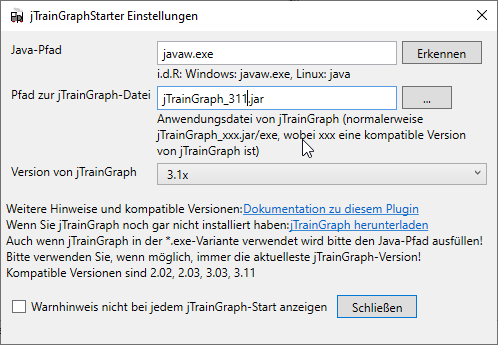
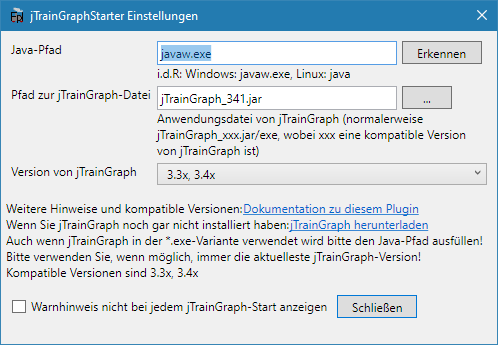
update docs for FPledit v2.6.1

diff --git a/hugo/content/fahrplaene-bearbeiten/network/_index.md b/hugo/content/fahrplaene-bearbeiten/network/_index.md
@@ -20,7 +20,7 @@ Eine Station kann mit Gleisangaben versehen werden. Im unteren Teil des Stations
 
 **Hinweis**: Schon vor der Erstellung des Streckennetzes sollte man sich Gedanken zum Aufbau des Netzes machen. Strecken können nachträglich nicht mehr zusammengefügt oder getrennt werden. Aus diesem Grund sollten zusammengehörende Strecken auch immer zusammenhängend anglegt werden und nicht aus Teilstrecken zusammengestückelt werden!
 
-![Streckenfenster](netzeditor.png)
+![Bearbeitung des Streckennetzes](netzeditor.png)
 
 Bei großen Streckennetzen kann die Verschiebe- und Zoomfunktion nützlich sein, um den Überblick zu behalten: Die Zeichenfläche kann mit der Maus verschoben werden; das Vergrößern und Verkleinern ist mit dem Mausrad oder mit den Tasten {{< kbd "Plus" >}} und {{< kbd "Minus" >}} möglich.
 
@@ -28,12 +28,17 @@ Bei großen Streckennetzen kann die Verschiebe- und Zoomfunktion nützlich sein,
 
 Wenn ein Streckennetz angelegt wurde, ist der Menüpunkt `Bearbeiten > Züge bearbeiten` nicht mehr ausgegraut. In diesem Fenster lassen sich die Züge, die im Streckennetz verkehren, bearbeiten. Züge haben im Gegensatz zu früheren Versionen einen Laufweg, der für jeden Zug seperat angelegt werden kann. Daher haben Züge auch keine Richtung mehr und die entsprechenden Teilung entfällt.
 
-Durch einen Klick auf `Neuer Zug` ({{< kbd "Strg+N" >}}) öffnet sich ein Fenster, in dem der Laufweg des Zuges eingestellt werden kann. Dies geschieht durch Klicks auf die Startstation und die Endstation (in dieser Reihenfolge!), was zu einer roten Markierung des Laufweges führt, und einer anschließenden Bestätigung mit `Weiter >>`.
-Anschließend öffnet sich ein Fenster in dem man Name, Verkehrstage und erweiterte Eigenschaften des Zuges auswählen kann. Den selben Dialog erreicht man auch mit einem Klick auf `Zug bearbeiten` ({{< kbd "Strg+B" >}}), damit lassen sich dann nachträglich diese Eigenschaften bearbeiten.
-
-Die erweitereten Eigenschaften enthalten das Triebfahrzeug, die Mindestbremshundertstel und Last. Das Triebfahrzeug lässt sich dabei aus einer Liste aller in dieser Fahrplandatei verwendeten Triebfahrzeuge auswählen oder selbst eingeben. Diese drei Angaben sind nicht verpflichtend und werden im Buchfahrplan angzeigt. Unten links kann ein Folgezug ausgewählt werden. Damit können Umläufe generiert werden. Diese werden in jTrainGraph im Bildfahrplan angezeigt.
+Durch einen Klick auf `Neuer Zug` ({{< kbd "Strg+N" >}}) öffnet sich ein Fenster, in dem der Laufweg des Zuges eingestellt werden kann. Dies geschieht durch Klicks auf die Startstation und die Endstation (in dieser Reihenfolge!), was zu einer roten Markierung des Laufweges führt, und einer anschließenden Bestätigung mit `Weiter >>`. Anschließend öffnet sich das Fenster zum Bearbeiten des neuen Zuges (siehe den nächsten Abschnitt).
 
 Züge lassen sich natürlich auch mit dem entsprechenden Button bzw. mit {{< kbd "Del" >}} löschen.
+
+## Zug bearbeiten
+
+Nach dem Erstellen oder mit der Funktion `Zug bearbeiten` ({{< kbd "Strg+B" >}}) öffnet sich ein Fenster in dem man Name, Verkehrstage und erweiterte Eigenschaften des Zuges auswählen kann.
+
+Die erweitereten Eigenschaften enthalten das Triebfahrzeug, die Mindestbremshundertstel und Last. Das Triebfahrzeug lässt sich dabei aus einer Liste aller in dieser Fahrplandatei verwendeten Triebfahrzeuge auswählen oder selbst eingeben. Diese drei Angaben sind nicht verpflichtend und werden im Buchfahrplan angzeigt.
+
+Unten links können ein oder mehrere Folgezüge eingetragen werden (z.B. verschiedene Übergänge an unterschiedlichen Verkehrstagen). Damit können Umläufe generiert werden. Diese werden in jTrainGraph im Bildfahrplan angezeigt.
 
 Bei der Bearbeitung der Verkehrstage eines Zuges können neben den Auswahlboxen unten die folgenden Tastenkürzel verwendet werden:
 
@@ -43,9 +48,9 @@ Bei der Bearbeitung der Verkehrstage eines Zuges können neben den Auswahlboxen 
 * {{< kbd "Strg+S" >}} Verkehrt nur Sonntags
 * {{< kbd "Strg+0" >}} Keine Tage anwählen
 
-![Zugfenster](zugfenster.png)
+![Bearbeitung eines Netzwerk-Zuges](zugfenster.png)
 
-## Fahrplan eines Zuges bearbeiten
+### Fahrplan eines Zuges bearbeiten
 
 Nachdem die Züge angelegt wurden, kann der Fahrplan jedes einzelnen Zuges bearbeitet werden. Dazu klickt man im Zugfenster mit dem zu bearbeitenden Zug ausgewählt auf `Zug bearbeiten` ({{< kbd "Strg+B" >}}). Im sich nun öffnenden Fahrplaneditor können die Fahrtzeiten des Zuges bearbeitet werden. In der linken Spalte sind die Stationen des Laufweges angezeigt, daneben können Ankunfts- und Abfahrtszeiten bearbeitet werden.
 
@@ -64,7 +69,7 @@ In jeder Zeile können Abfahrts- und Ankunftsgleis ausgewählt werden. Diese wer
 
 Mit einem Klick auf die Schaltfläche `Rangierfahrten` können die Rangierfahrten des aktuellen Zuges am aktuell ausgewählten Bahnhof bearbeitet werden. Dies ist nur möglich, wenn, wie oben beschrieben, Gleise angelegt wurden. Rangierfahrten bestehen dabei aus Zeitangabe, Start- und Zeilgleis. `Alle Wagen` gibt an, ob das Startgleis nach der Rangierfahrt wieder frei ist.
 
-![Rangierfenster](../rangierfenster.png)
+![Rangierfahrten bearbeiten oder anlegen](rangierfenster.png)
 
 ## Laufweg eines Zuges nachträglich ändern
 
@@ -72,7 +77,7 @@ Natürlich lässt sich der Laufweg eines Zuges auch nachträglich bearbeiten. Da
 
 Das Entfernen von Stationen aus der Mitte des Laufweges ist nicht möglich, genausowenig wie das Erstellen verzweigter Laufwege.
 
-![Laufweg bearbeiten](laufwegfenster.png)
+![Laufweg eines Zuges nachträglich bearbeiten](laufwegfenster.png)
 
 {{< include "inc_kopieren.md" >}}
 

diff --git a/hugo/content/fahrplaene-bearbeiten/cycles/_index.md b/hugo/content/fahrplaene-bearbeiten/cycles/_index.md
@@ -8,21 +8,33 @@ Ab FPLedit Version 2.1.0 können Netzwerke auch geschlossene Kreise enthalten. D
 
 ## Strecken untereinander wieder verbinden
 
-Zuerst muss eine Strecke ausgewählt werden. In diesem Beispiel die Strecke B - F. Deren offenes Ende (hier: F) soll im nächsten Schritt mit einem Bahnhof einer anderen Strecke verbunden werden. In diesem Beipiel soll eine Verbindung zwischen F und C hergestellt werden. Nach diesem Schritt werden die beiden Strecken A - B - C - D und B - E - F - C existieren.
+Zuerst muss eine Strecke ausgewählt werden. In diesem Beispiel die Strecke B – F. Deren offenes Ende (hier: F) soll im nächsten Schritt mit einem Bahnhof einer anderen Strecke verbunden werden. In diesem Beipiel soll eine Verbindung zwischen F und C hergestellt werden. Nach diesem Schritt werden die beiden Strecken A – B – C – D und B – E – F – C existieren.
 
 ![Noch ist das Netz nicht zirkulär](join_start.png)
 
 Nach einem Klick auf `Strecken zusammenführen` muss der neue Streckenkilometereintrag für den Bahnhof C eingegeben werden:
 
-![Eingabefeld für den neuen Kilometereintrag](join_km.png)
+![Eingabefeld für den neuen Kilometer-Eintrag](join_km.png)
 
 Zum Abschluss sieht das resultierende Netz nun so aus:
 
 ![Netz am Ende dieses Kurztutorials](join_end.png)
 
-{{< note title="Zirkuläre Strecken löschen" >}}
-Zirkuläre Strecken können nicht mehr vollständig gelöscht werden, da sonst meist mehrere Strecken zwischen zwei Stationen zusammenfallen. FPLedit wird dies verhindern, ein Löschen der letzten Station, die zwei Strecken unterscheidet ist somit nicht mehr möglich. Ein Entfernen des Streckenastes B - E - F - C ist daher in diesem Besipiel nicht mehr möglich, wohl aber das Löschen *einer* Station: E *oder* F.
-{{< /note >}}
+## Strecken wieder trennen
+
+Seit FPLedit 2.6.0 können Strecken auch wieder getrennt werden, solange bestimmte Bedingungen erfüllt sind: Es dürfen keine Züge über den Abschnitt verkehren. Außerdem müssen alle Stationen nach dem Trennen noch durch Strecken verbunden sein; das Trennen ist nicht möglich, wenn dass das Netz dabei in zwei seperate Teilnetze ohne Verbindung zerfallen würde.
+
+Um eine Strecke zwischen zwei Stationen zu trennen, hier zwischen E und F, wird bei einer Station nach einem Rechtsmausklick die Option `Strecke trennen` ausgewählt:
+
+![Aktivieren der Funktion zum Trennen von Strecken](trennen_start.png)
+
+Danach muss die zweite Station mit einem Klick ausgewählt werden, zwischen denen das Streckensegment entfernt werden soll. Diese muss direkt mit der zuerst ausgewählten Station verbunden sein, es dürfen also keine anderen Stationen dazwischen liegen:
+
+![Auswahl der zweiten Station zum Trennen der Strecke E – F](trennen_select.png)
+
+Nach der Trennung der Strecke sieht das Netz dann so aus:
+
+![Ergebnis des Trennens der Strecke zwischen E und F](trennen_result.png)
 
 ## Züge in zirkulären Netzwerken anlegen
 
@@ -30,14 +42,22 @@ Als Beispiel soll ein Zug zwischen den Bahnhöfen A und D angelegt werden. Dabei
 
 ![Laufwegauswahl mit Start und Ziel](train_start.png)
 
-Um den Laufweg einfach bearbeiten zu können, muss nun unten die Option `Wegpunkte setzen` aktiviert werden. Wegpunkte können nur bei der Erstellung der Züge angelegt werden. Ihre Erstellung kann nicht rückgängig gemacht werden. Auch muss aufgepasst werden, dass die Wegpunkte **in der Reihenfolge gesetzt werden, in der der Zug sie auch durchfährt**, sonst kommt es zu fehlerhaften Ergebnissen. Da der Testzug den Laufweg A - F - E - D haben soll, wird nun der in Zugrichtung erste Wegpunkt mit einem Klick angewählt: E.
+Um den Laufweg einfach bearbeiten zu können, muss nun unten die Option `Wegpunkte setzen` aktiviert werden. Wegpunkte können nur bei der Erstellung der Züge angelegt werden. Ihre Erstellung kann nicht rückgängig gemacht werden. Auch muss aufgepasst werden, dass die Wegpunkte **in der Reihenfolge gesetzt werden, in der der Zug sie auch durchfährt**, sonst kommt es zu fehlerhaften Ergebnissen. Da der Testzug den Laufweg A – F – E – D haben soll, wird nun der in Zugrichtung erste Wegpunkt mit einem Klick angewählt: E.
 
 ![Der erste Wegpunkt wurde gesetzt und führt zu einer Strecke die Bahnhof B zwei mal durchfährt](train_first_waypoint.png)
 
-Der Laufweg des Zuges ist nun A - B - E - B - C - D und damit noch immer nicht das gewünschte Ergebnis. Deshalb wird nun F als zweiter Wegpunkt ausgewählt:
+Der Laufweg des Zuges ist nun A – B – E – B – C – D und damit noch immer nicht das gewünschte Ergebnis. Deshalb wird nun F als zweiter Wegpunkt ausgewählt:
 
 ![Der fertige Laufweg wurde mit zwei Wegpunkten realisiert](train_waypoints.png)
 
 Der Laufweg ist nun vollständig und der Zug kann wie gewohnt bearbeitet werden.
+
+## Virtuelle Strecken
+
+Unter `Bearbeiten > Virtuelle Strecken` lassen sich "virtuelle" Strecken abbilden – das sind Streckenverläufe, die nicht notwendigerweise mit den "echten" (über `Neue Strecke`) angelegten Streckenästen des Netzes übereinsteimmen müssen. Das ist nützlich für die Bildfahrplanvorschau, sollte man z.B. eine durchgehende Strecke gestückelt angelegt haben.
+
+Eine virtuelle Strecke wird beim Anlegen wie ein Zug mit einem "Laufweg" versehen. Danach steht diese in der Bildfahrplanvorschau zur Verfügung, und ist mit einem `[v]` und dem angelegten Laufweg bezeichnet.
+
+![Virtuelle Strecken können nur erzeugt und gelöscht werden](vroutes.png)
 
 {{% beta %}}

diff --git a/hugo/content/fahrplaene-bearbeiten/linear/index.md b/hugo/content/fahrplaene-bearbeiten/linear/index.md
@@ -18,7 +18,7 @@ Durch einen Klick auf `Neue Station` ({{< kbd "Strg+N" >}}) kann man durch Einga
 
 Eine Station kann mit Gleisangaben versehen werden. Im unteren Teil des Stationseditors kann der schematische Gleisplan editiert werden. Mit einem Klick auf die entsprechenden Schlatflächen können Gleise hinzugefügt, verschoben und auch wieder entfernt werden. Mit einem Doppelklick auf den Gleisnamen kann dieser bearbeitet werden. Am Rand können die Standardgleise in die entsprechende Richtung verschoben werden.
 
-![Streckenfenster](lin-streckenfenster.png)
+![Bearbeiten der linearen Strecke](lin-streckenfenster.png)
 
 ## Züge anlegen
 
@@ -26,9 +26,11 @@ Wenn eine Strecke angelegt wurde, ist der Menüpunkt `Bearbeiten > Züge bearbei
 
 Die Züge sind nach Fahrtrichtung geordnet, diese kann nachträglich auch nicht mehr geändert werden! Durch einen Klick auf `Neuer Zug` ({{< kbd "Strg+N" >}}) bei der jeweiligen Fahrtrichtung, in dem die Daten des Zuges festgelegt werden können. Den selben Dialog erreicht man auch mit einem Klick auf `Zug bearbeiten` ({{< kbd "Strg+B" >}}), damit lassen sich dann nachträglich Züge bearbeiten. Züge lassen sich natürlich auch mit dem entsprechenden Button bzw. mit {{< kbd "Del" >}} löschen.
 
-![Zugfenster](lin-zugfenster.png)
+![Bearbeiten der Züge auf der linearen Strecke](lin-zugfenster.png)
 
-Im Zugfenster kann man Name, Verkehrstage und erweiterte Eigenschaften des Zuges eingeben. Die erweitereten Eigenschaften enthalten das Triebfahrzeug, die Mindestbremshundertstel und Last. Das Triebfahrzeug lässt sich dabei aus einer Liste aller in dieser Fahrplandatei verwendeten Triebfahrzeuge auswählen oder selbst eingeben. Diese drei Angaben sind nicht verpflichtend und werden im Buchfahrplan angzeigt. Unten links kann ein Folgezug ausgewählt werden. Damit können Umläufe generiert werden. Diese werden in jTrainGraph im Bildfahrplan angezeigt.
+Im Zugfenster kann man Name, Verkehrstage und erweiterte Eigenschaften des Zuges eingeben. Die erweitereten Eigenschaften enthalten das Triebfahrzeug, die Mindestbremshundertstel und Last. Das Triebfahrzeug lässt sich dabei aus einer Liste aller in dieser Fahrplandatei verwendeten Triebfahrzeuge auswählen oder selbst eingeben. Diese drei Angaben sind nicht verpflichtend und werden nur im Buchfahrplan angzeigt.
+
+Unten links können ein oder mehrere Folgezüge eingetragen werden (z.B. verschiedene Übergänge an unterschiedlichen Verkehrstagen). Damit können Umläufe generiert werden. Diese werden in jTrainGraph im Bildfahrplan angezeigt.
 
 In jeder Zeile können Abfahrts- und Ankunftsgleis ausgewählt werden. Diese werden an den entsprechenden Stellen in den Fahrplänen angezeigt.
 
@@ -40,7 +42,7 @@ Bei der Bearbeitung der Verkehrstage eines Zuges können neben den Auswahlboxen 
 * {{< kbd "Strg+S" >}} Verkehrt nur Sonntags
 * {{< kbd "Strg+0" >}} Keine Tage anwählen
 
-![Zugfenster](lin-zugeditor.png)
+![Bearbeitung eines (linearen) Zuges](lin-zugeditor.png)
 
 Mit einem Klick auf die Schaltfläche `Rangierfahrten` können die Rangierfahrten des aktuellen Zuges am aktuell ausgewählten Bahnhof bearbeitet werden. Dies ist nur möglich, wenn, wie oben beschrieben, Gleise angelegt wurden. Rangierfahrten bestehen dabei aus Zeitangabe, Start- und Zeilgleis. `Alle Wagen` gibt an, ob das Startgleis nach der Rangierfahrt wieder frei ist.
 
@@ -59,7 +61,7 @@ Bei Ankünften kann festgelegt werden, ob der Zug vor der Trapeztafel halten mus
 
 [^1]: Dies ist das Signal für Bedarfshalt bei den schwedischen Eisenbahnen. Ein Reisender kann die Scheibe von Hand in Richtung des Zuges drehen, damit der Zug anhalten wird.
 
-![Fahrplan bearbeiten](lin-fahrplanfenster.png)
+![Fahrplan eines linearen Zuges bearbeiten](lin-fahrplanfenster.png)
 
 {{< include "inc_kopieren.md" >}}
 

diff --git a/hugo/content/erweiterbarkeit/_index.md b/hugo/content/erweiterbarkeit/_index.md
@@ -4,17 +4,18 @@ weight: 3
 ---
 
 ## Erweiterungen
-Eines der Grundkonzepte von FPLedit ist die Erweiterbarkeit. Erweiterungen fügen Menüs und eigene Dialoge hinzu und stellen zusätzliche Funktionalität bereit. Die Erweiterungen liegen als DLL-Datei im Programmverzeichnis. Nahezu alle Programmfunktionen werden über Erweiterungen bereitgestellt. Mit dem Programm werden schon einige Erweiterungen, die standardmäßig alle aktiviert sind, mitausgeliefert:
+Eines der Grundkonzepte von FPLedit ist die Erweiterbarkeit. Erweiterungen fügen Menüs und eigene Dialoge hinzu und stellen zusätzliche Funktionalität bereit. Die Erweiterungen liegen als DLL-Datei im Programmverzeichnis. Nahezu alle Programmfunktionen werden über Erweiterungen bereitgestellt. Mit dem Programm werden schon einige Erweiterungen, die standardmäßig alle aktiviert sind, mit ausgeliefert:
 
 * Aushangfahrplan-Modul (`FPLedit.Aushangfahrplan.dll`)
 * Buchfahrplan-Modul (`FPLedit.Buchfahrplan.dll`)
 * Modul für Tabellenfahrpläne (`FPLedit.Kursbuch.dll`)
 * Starter für jTrainGraph zur Bildfahrplanerstellung (`FPLedit.jTrainGraphStarter.dll`)
 * Dynamische Bildfahrplanvorschau (`FPLedit.Bildfahrplan.dll`)
+* GTFS-Export (`FPLedit.GTFS.dll`) – standardmäßig nicht aktiviert!
 
 Erweiterungen können über über das Programm verwaltet werden (`Hilfe > Einstellungen > Erweiterungen`). In diesem Dialog können Erweiterungen deaktiviert (`<`) oder aktiviert (`>`) werden. [Eigene Erweiterungen](/dev/) können in C# programmiert werden.
 
-![Erweiterungsfenster](erweiterungsfenster.png)
+![Verwaltung der vorhandenen FPLedit-Erweiterungen](erweiterungsfenster.png)
 
 ## Vorlagen
 Zur Generierung der Fahrplan-Ausgabedateien kommen Vorlagen zum Einsatz. Vorlagen sind Textdateien mit der Endung `.fpltmpl`, die im vorgegebenen Format mit einem Texteditor von jedem Benutzer selbst erstellt werden können. Diese liegen im Ordner `templates/` im Programmverzeichnis.
@@ -23,17 +24,17 @@ Die Verwaltung von Vorlagen ist unter `Hilfe > Einstellungen > Vorlagen` möglic
 
 **Achtung:** Vorlagen sind ausführbarer Programmcode. Möglicherweise können Vorlagen, die nicht mit FPLedit ausgeliefert wurden und beispielsweise von einer anderen Website heruntergeladen werden, ein Sicherheitsrisiko für ihren Computer darstellen.
 
-![Vorlagenfenster](vorlagenfenster.png)
+![Verwaltung der vorhandenen Fahrplan-Vorlagen](vorlagenfenster.png)
 
 ## Sprachdateien
 Unter `Hilfe > Einstellungen > Sprache` kann die Sprache der Benutzeroberfläche von FPLedit eingestellt werden.
 
-![Sprachfenster](sprachfenster.png)
+![Auswahl der Sprache der Benutzeroberfläche](sprachfenster.png)
 
 ## Dateiformatversionen
 
-Es stehen mehrere Dateiformatversionen sowohl für lineare als auch Netzwerk-Fahrpläne zur Verfügung. Diese können in den Einstellungen augewählt weden und werden bei jedem Programmupdate auf die jeweils aktuelle Version gesetzt. Normalerweise ist die Auswahl der aktuellsten Version die richtige Entscheidung, da damit immer die meisten und neuesten Features bereitstehen.
+Es stehen mehrere Dateiformatversionen sowohl für lineare als auch Netzwerk-Fahrpläne zur Verfügung. Diese können in den Einstellungen augewählt weden und werden bei jedem Programmupdate auf die jeweils aktuelle Version gesetzt. Normalerweise ist die Auswahl der aktuellsten Version die richtige Entscheidung, da damit immer die meisten und neuesten Features bereitstehen. Die Unterstützung älterer Dateiformatversionen wird mit neuen Programmversionen auch immer wieder entfernt.
 
-![Dateiformatfenster](dateiformatfenster.png)
+![Auswahl der Standard-Dateiformatversionen](dateiformatfenster.png)
 
 {{% beta %}}

diff --git a/hugo/content/gtfs/_index.md b/hugo/content/gtfs/_index.md
@@ -1,0 +1,50 @@
+---
+title: GTFS
+weight: 100
+nooffline: true
+---
+
+FPLedit erlaubt das Erstellen von einfachen GTFS-Feeds. Diese Funktion ist nur für "Experten" sinnvoll nutzbar und kann unter `Einstellungen > Erweiterungen` ativiert werden (standardmäßig ist die Funktion deaktiviert).
+
+{{< warning title="Einschränkungen GTFS-Export" >}}
+Der GTFS-Export ist aktuell ausdrücklich eine **Testversion** und unterstützt nicht die Anpassung aller Details des exportierten Feeds. Der Export unterstützt aktuell auch nur lineare Fahrplandateien und einen einzigen Betreiber (Agency).
+
+Grundsätzlich gilt der Hinweis auf der Downloadseite; sollten Züge an mehr als einer handvoll Tagen verkehren ist FPLedit vermutlich *nicht* das Programm der Wahl zur Erstellung von GTFS-Feeds. FPLedit hat auch keinen GTFS-Validator und validiert den erstellten Feed nicht vollständig auf Korrektheit.
+{{< /warning >}}
+
+Für die Erstellung von gültigen GTFS-Feeds ist die Angabe von weiteren Daten erforderlich, die die "abstrakten" Fahrplandaten von FPLedit auf konkrete Orte, Zeiten und Betreiber bezeiehen.
+
+## Agency- und Streckendaten hinterlegen
+Zum Erstellen eines GTFS-Feeds benötigt FPLedit die Defintion einer eine Agency (Betreiber). Dies geschieht unter `GTFS > GTFS-Agencydaten bearbeiten`. Alle Agency- und Strecken-Daten sind Pflichtfelder und müssen ausgefüllt werden, damit ein gültiger GTFS-Feed entstehen kann.
+
+* Name des Betreibers
+* Sprachcode als IETF BCP 47 Language Code, z.B. `de` oder `de-DE` (FPLedit validiert diese Angabe nicht)
+* Website des Betreibers
+* Zeitzone, z.B. `Europe/Berlin` (FPLedit validiert diese Angabe nicht)
+
+Die eine Strecke des linearen Fahrplans benötigt einen Namen und einen Typ:
+* Name der einen Strecke
+* Type des Beförderungsmittels: Auswahl aus vordefinierten GTFS-Typen
+
+Global können hier auch noch die Verkehrstage aller Züge gesetzt werden, siehe auch den folgenden Abschnitt.
+
+## Zugattribute
+Unter `GTFS > GTFS-Zugattribute ändern` können einzelne Einstellungen pro Zug geändert werden:
+* **Fahrradmitnahme** und **Rollstuhlmitnahme** kann jeweils ausgewählt werden: Entweder nicht erlaubt (NotAllowed), erlaubt (Allowed) oder undefiniert (NotDefined).
+* **Verkehrstage** können als Datumsangaben angegeben werden, :
+    * Einzel-Datumsangaben werden im Format `YYYY-MM-TT`, z.B. `2023-12-06`, angegeben,
+    * Datumsbereiche im Format `YYYY-MM-TT--YYYY-MM-TT`, also mit zwei Minuszeichen (`--`) zwischen Start- und Enddatum, und
+    * mehrere Einträge können mit Kommata (`,`) separiert werden.
+    * Leerzeichen sind an keiner Stelle zulässig
+
+## Geodaten
+Es wird eine kml-Datei aus dem Verzeichnis der Fahrplandatei gelade. Diese muss den gleichen Dateinamens-Stamm haben, also z.B. `fahrplan2023.fpl` und `fahrplan2023.kml`. FPLedit lädt Geodaten der Stationen aus dieser Datei, wenn diese korrekt benannt sind:
+* KML Linien (`<LineString>` im XML), benannt mit dem _exakten_ bei den Streckendaten hinterlegten Streckennamen. Diese wird – falls vorhanden – der GTFS-Strecke als Shape zugewiesen.
+* KML Punkte (`<Point>` im XML) für Stationen, benannt mit den exakten Stationsnamen aus der Streckendefinition.
+
+## Export
+Wenn alle Daten eingegeben wurden, kann `GTFS > Exportiere GTFS-Feed` aufgerufen werden. Dabei muss ein (bestenfalls leerer) Ordner als Ziel ausgewählt werden. FPLedit packt den GTFS-Feed dabei nicht selbstständig als ZIP-Datei, das muss danach manuell geschehen.
+
+FPLedit hat keinen GTFS-Validator und validiert den erstellten Feed nicht vollständig auf Korrektheit.
+
+{{% beta %}}

diff --git a/hugo/content/bildfahrplaene/_index.md b/hugo/content/bildfahrplaene/_index.md
@@ -28,7 +28,7 @@ Um jTrainGraph direkt aus FPLedit zu starten, benutzen Sie `jTrainGraph > jTrain
 ## Konfiguration
 Die Einstellungen befinden sich unter `jTrainGraph > Einstellungen`. Der java-Pfad ist der Pfad zur Programmdatei von Java. Unter Windows sollte dieser normalerweise `javaw.exe` (bzw. `java` unter Linux) lauten. In manchen Fällen muss aber auch der absolute Pfad angegeben werden. Es kann auch der `Erkennen`-Button genutzt werden, um auf Windows automatisch den Java-Pfad herauszufinden.
 
-Der Pfad zur jTrainGraph-Datei lautet bei Installation im gleichen Verzeichnis `jTrainGraph_341.jar` (341 durch die jeweils aktuelle Version ersetzen). Ebenfalls muss der Pfad hier angepasst werden, wenn die Installation nicht im gleichen Verzeichnis erfolgt ist.
+Der Pfad zur jTrainGraph-Datei lautet bei Installation im gleichen Verzeichnis `jTrainGraph_342.jar` (342 durch die jeweils aktuelle Version ersetzen). Ebenfalls muss der Pfad hier angepasst werden, wenn die Installation nicht im gleichen Verzeichnis erfolgt ist.
 
 Weiter muss ausgewählt werden, welche Version von jTrainGraph verwendet wird. Damit wird die Zielversion von jTrainGraph entsprechend verwendet.
 
@@ -36,7 +36,7 @@ In den neuesten Versionen bietet jTrainGraph eine exe-Version an. Bei der Konfig
 
 Wenn die Konfiguration nicht korrekt erfolgt ist, warnt das Programm sowohl beim Speichern der Einstellungen als auch beim Versuch, jTrainGraph über das Menü zu starten.
 
-![Einstellungen](einstellungen.png)
+![Einstellungen für das Öffnen von Fahrplänen in jTrainGraph](einstellungen.png)
 
 ## Kompatibilitätsmatrix
 | FPLedit Version | ist kompatibel mit | jTrainGraph Versionen       |
@@ -46,6 +46,6 @@ Wenn die Konfiguration nicht korrekt erfolgt ist, warnt das Programm sowohl beim
 | 2.0.0           | &rarr;             | 2.02, 2.03, 3.03            |
 | 2.1.x, 2.2.x    | &rarr;             | 2.02, 2.03, 3.03, 3.11      |
 | 2.3.x           | &rarr;             | 3.11, 3.2x, 3.3x            |
-| 2.4.x           | &rarr;             | 3.3x, 3.4x (ab 2.4.2)       |
+| 2.4.x – 2.6.x   | &rarr;             | 3.3x, 3.4x (ab 2.4.2)       |
 
 {{% beta %}}

diff --git a/hugo/content/aushangfahrplaene/_index.md b/hugo/content/aushangfahrplaene/_index.md
@@ -7,11 +7,11 @@ Aushangfahrpläne sind Fahrpläne, die den Reisenden die Abfahrtszeiten am jewei
 
 Der Aushangfahrplan, der mit der Standard-Vorlage von FPledit erstellt wird, folgt grob einer Vorlage vom Bahnhof Malsch aus der Zeit der DRG und enthält keine Ankunftszeiten. Damit ist er am besten für kleinere Bahnhöfe an einer oder wenigen Strecken zu verwenden:
 
-![Quelle der Daten: Buchfahrplanheft 721-33 der DR aus dem Jahr 1894/85](afpl.png)
+![Beispiel, Quelle der Daten: Buchfahrplanheft 721-33 der DR aus dem Jahr 1894/85](afpl.png)
 
 Um den Aushangfahrplan als Vorschau anzuzeigen, verwenden Sie `Vorschau > Aushangfahrplan`. Unter `Bearbeiten > Filterregeln` können Regeln angelegt werden, nach denen vor der Ausgabe die Züge und Bahnhöfe gefiltert werden. Damit könnten z.B. alle Güterzüge und Anschlussstellen aus dem Aushangfahrplan ausgeblendet werden.
 
-![Filterfenster](filterfenster.png)
+![Filterregeln zum Ausblenden im Aushangfahrplan](filterfenster.png)
 
 ## Anpassen von Aushangfahrplänen
 Unter `Bearbeiten > Fahrplandarstellung` im Reiter `Aushangfahrplan` kann das Aussehen des Aushangfahrplans beeinflusst werden. Die Auswahlmöglichkeit einer Vorlage erlaubt es, die Darstellung des Aushangfahrplans schnell an verschiedene Gegebenheiten anzupassen.
@@ -22,7 +22,7 @@ Es kann weiterhin ausgewählt werden, ob Gleisangaben im Aushangfahrplan angzeig
 
 Weiterführend kann die Plandarstellung mit CSS (= Cascading Style Sheets) angepasst werden, da er ja im HTML-Format exportiert wird. Mit CSS können nahezu alle Aspekte der Plandarstellung geändert werden. Zur Aktivierung und Verwendung von CSS gibt es auf [dieser Unterseite](/dev/css/) aber eine ausführlichere Anleitung.
 
-![Aushangfahrplansdarstellung](afpl-darstellung.png)
+![Anpassung der Aushangfahrplansdarstellung](afpl-darstellung.png)
 
 ## Aushangfahrpläne exportieren und drucken
 {{< include "/include-export" >}}

diff --git a/hugo/content/buchfahrplaene/_index.md b/hugo/content/buchfahrplaene/_index.md
@@ -7,7 +7,7 @@ Zur Zeit wird kein vollständiger Buchfahrplan generiert, an einigen Stellen ist
 
 Dieser Buchfahrplan ist zwar schon recht nah am Vorbild, es fehlt aber trotzdem noch einiges bzw. das Format ist stark vereinfacht:
 
-![Quelle der Daten: Buchfahrplanheft 698/3 - Ersatzfahrplan](bfpl.png)
+![Beispiel-Buchfahrplan, Quelle der Daten: Buchfahrplanheft 698/3 - Ersatzfahrplan](bfpl.png)
 
 Um den Buchfahrplan als Vorschau anzuzeigen, verwenden Sie `Vorschau > Buchfahrplan`.
 
@@ -23,7 +23,7 @@ Neue Geschwindigkeitswechsel (ohne Bahnhof und Fahrtzeiten) auf der freien Strec
 
 Bei Geschwindigkeitswechseln können alle Eigenschaften bearbeitet werden, bei Bahnhöfen nur die Geschwindigkeit. Die Position und anderen Eigenschaften der Bahnhöfe können im Netz- oder Streckeneditor bearbeitet werden.
 
-![Höchstgeschwindigkeitsfenster](hgsfenster.png)
+![Angabe der Höchstgeschwindigkeiten für den Buchfahrplan](hgsfenster.png)
 
 In den Namen der Geschwindigkeitswechsel können Sonderzeichen verwendet werden, die in Buchfahrplänen eine besondere Bedeutung haben. Zum Verwenden im Plan bitte hier in der Dokumentation Kopieren ({{< kbd "Strg+C" >}}) und im Namenstextfeld einfügen ({{< kbd "Strg+V" >}}).
 
@@ -40,7 +40,7 @@ Es kann außerdem ausgewählt werden, ob der beim Zug eingegebene Kommentar und/
 
 Weiterführend kann die Plandarstellung mit CSS (= Cascading Style Sheets) angepasst werden, da er ja im HTML-Format exportiert wird. Mit CSS können nahezu alle Aspekte der Plandarstellung geändert werden. Zur Aktivierung und Verwendung von CSS gibt es auf [dieser Unterseite](/dev/css/) aber eine ausführlichere Anleitung.
 
-![Buchfahrplaneinstellungen](bfpl-darstellung.png)
+![Anpassung der Buchfahrplaneinstellungen](bfpl-darstellung.png)
 
 ## Buchfahrpläne exportieren und drucken
 {{< include "/include-export" >}}

diff --git a/hugo/content/einfuehrung/_index.md b/hugo/content/einfuehrung/_index.md
@@ -23,7 +23,7 @@ Nach dem Programmstart erscheint zuerst das Haptfenster. Über die verschiedenen
 
 Unter dem Menü ist direkt im Hauptfenster das Strecken-Bearbeitungstool angeordnet. Hier kann auf einfache graphische Weise die Strecke oder das Streckennetz des Fahrplans bearbeitet werden. Mehr zu den verschiedenen Bearbeitungsmöglichkeiten im Kapitel zu Fahrplänen. Mit der Maus kann hier die Ansicht verschoben werden.
 
-![Hauptfenster nach einigen Aktionen](hauptfenster.png)
+![Hauptfenster nach einigen Aktionen, zentral das Streckennetz](hauptfenster.png)
 
 * Menüpunkt `Bearbeiten`: Hier gibt es die Möglichkeit, den Fahrplan nach eigenen Wünschen zu erzeugen und anzupassen. Die Reihenfolge entspricht der empfohlenen Bearbeitungsreihenfolge. Die hier befindlichen Dialoge dienen ausschließlich der Dateneingabe.
     * Der Menüpunkt `Bearbeiten > Rückgängig` können fast alle zuletzt angewendete Aktionen rückgängig gemacht werden.
@@ -39,8 +39,6 @@ Mit dem Menüpunkt `Vorschau > Dynamischer Bildfahrplan` steht ein Werkzeug bere
 Einige Darstellungseinstellungen lassen sich auch anpassen. Diese werden auch für den von jTrainGraph generierten Bildfahrplan übernommen. Ein Export oder Druck der dynamischen Vorschau ist nicht möglich.
 
 ![Dynamische Bildfahrplaneinstellungen](dynamische-einstellungen.png)
-
-<!-- TODO: virtuelle Strecken -->
 
 ## Tastenkombinationen
 

diff --git a/hugo/content/download/update-net5-net6.md b/hugo/content/download/update-net5-net6.md
@@ -4,7 +4,7 @@ nooffline: true
 excludesitemap: true
 ---
 
-FPLedit bis einschließlich Version 2.4.3 beaut auf der .NET 5-Laufzeit von Microsoft auf. Ab Version 2.5.0 benötigt FPLedit nun die Version 6.0 dieser Laufzeitumgebung.
+FPLedit bis einschließlich Version 2.4.3 baut auf der .NET 5-Laufzeit von Microsoft auf. Ab Version 2.5.0 benötigt FPLedit nun die Version 6.0 dieser Laufzeitumgebung.
 
 Die Installation ist jeweils in den Installationshinweisen ([Windows](../install-windows/), [Linux](../install-linux/), bei macOS nicht nötig) beschrieben.
 Die Installation von .NET 6 entfernt .NET 5 nicht vom Computer, beide Versionen können parallel installiert sein. Wurde .NET 5 nur für FPLedit installiert (was bei vielen Nutzern der Fall sein dürfte), so kann .NET 5 deinstalliert werden.

diff --git a/hugo/content/tabellenfahrplaene/_index.md b/hugo/content/tabellenfahrplaene/_index.md
@@ -20,7 +20,7 @@ Bei den Kursbüchern der deutschen Eisenbahnen war und ist es oft üblich, dass 
 
 Weiterführend kann die Plandarstellung mit CSS (= Cascading Style Sheets) angepasst werden, da er ja im HTML-Format exportiert wird. Mit CSS können nahezu alle Aspekte der Plandarstellung geändert werden. Zur Aktivierung und Verwendung von CSS gibt es auf [dieser Unterseite](/dev/css/) aber eine ausführlichere Anleitung.
 
-![Kursbuch-Darstellung](kfpl-darstellung.png)
+![Anpassung der Kursbuch-Darstellung](kfpl-darstellung.png)
 
 Unter `Bearbeiten > Filterregeln` können Regeln angelegt werden, nach denen vor der Ausgabe die Züge und Bahnhöfe gefiltert werden. Damit könnten z.B. alle Güterzüge und Anschlussstellen aus dem Kursbuchfahrplan ausgeblendet werden.
 
